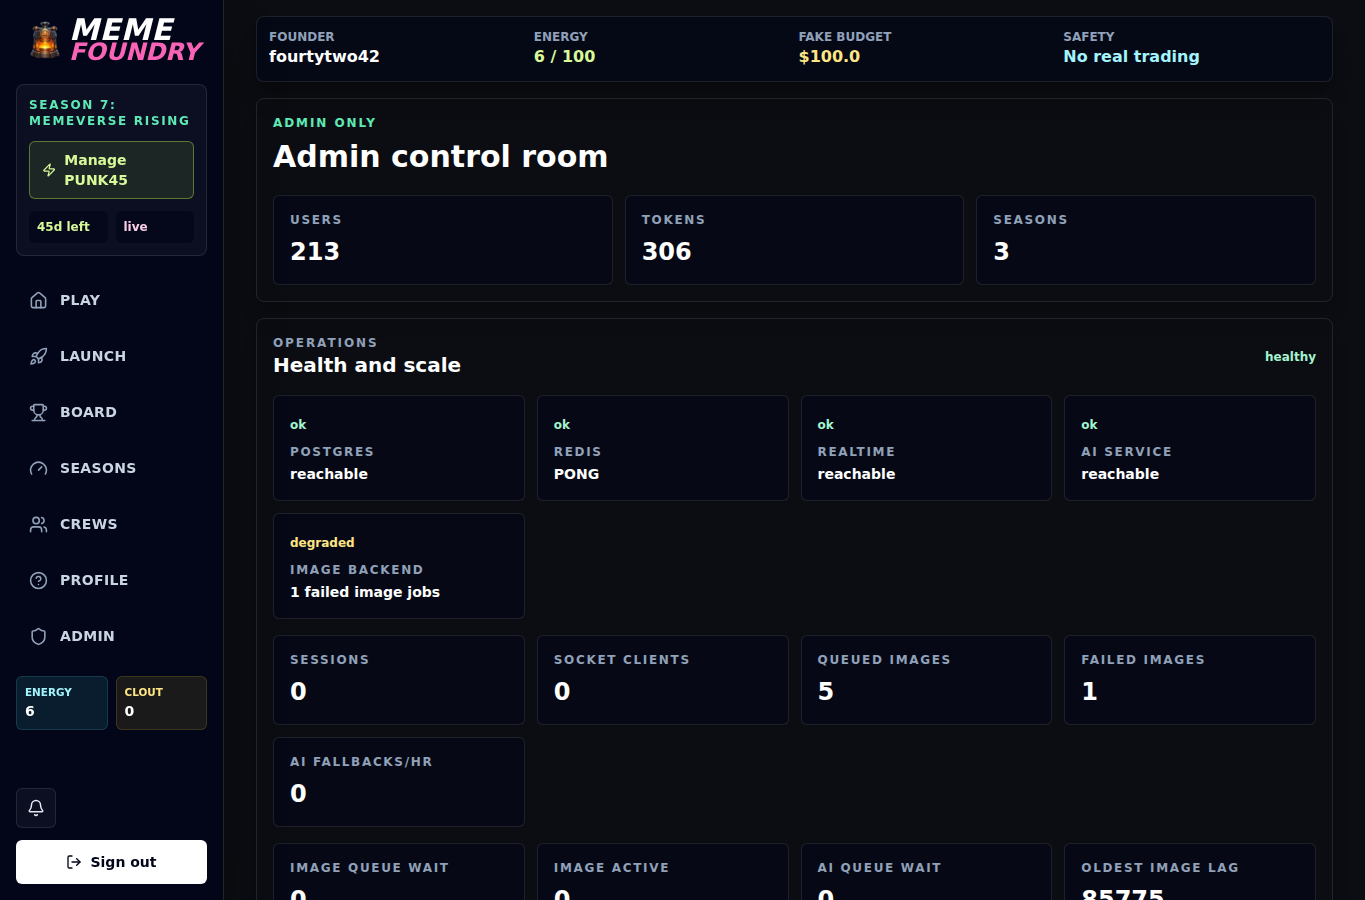
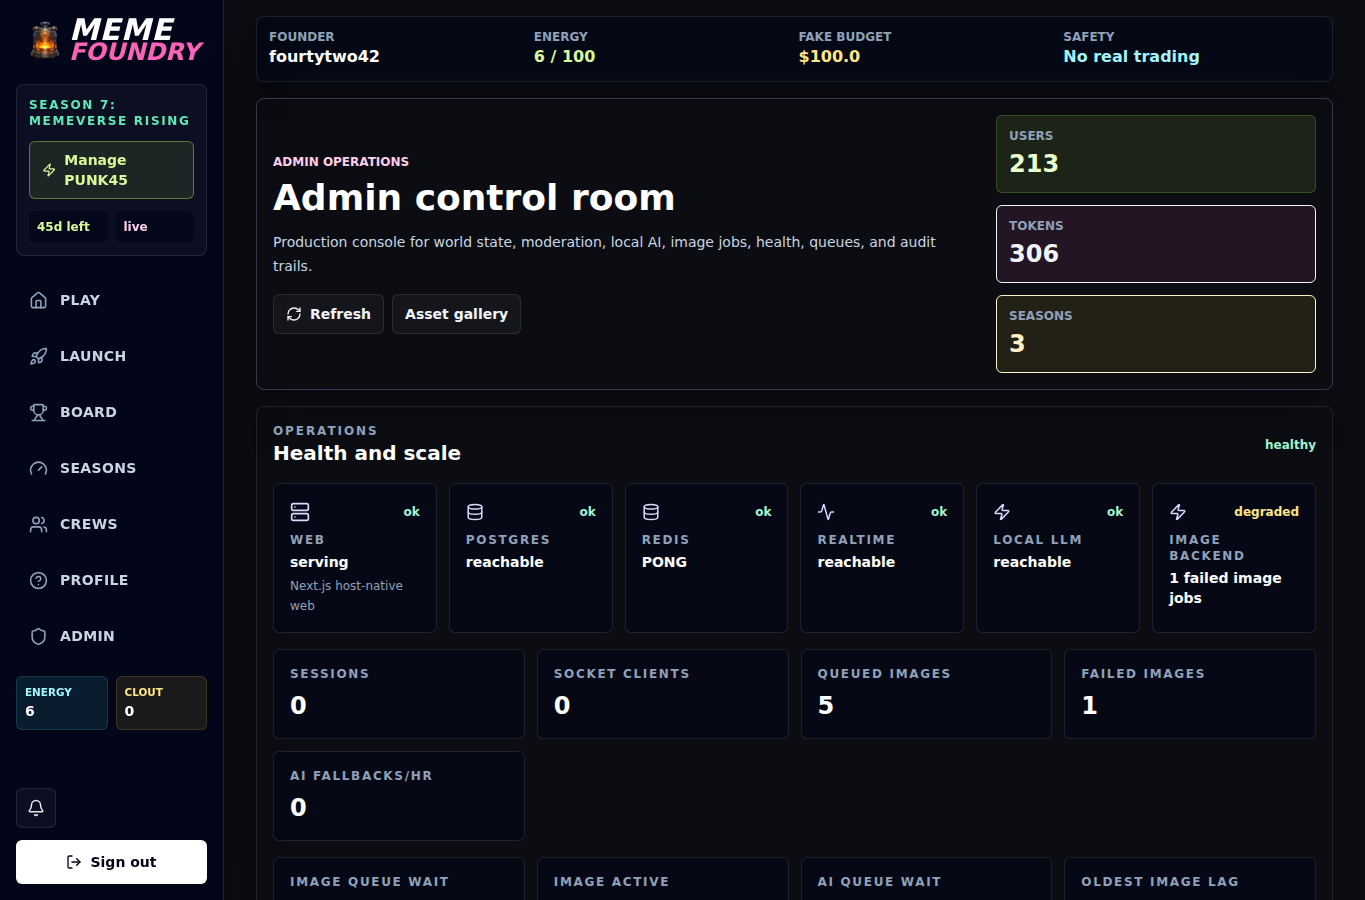
Align admin operations console

diff --git a/apps/web/src/app/admin/page.tsx b/apps/web/src/app/admin/page.tsx
@@ -1,4 +1,5 @@
 import { redirect } from "next/navigation";
+import type { ReactNode } from "react";
 import {
   hideReportTargetAction,
   resolveReportAction,
@@ -10,7 +11,15 @@ import { auth } from "@/auth";
 import { getOpsHealth } from "@/lib/server/ops-health";
 import { AppShell } from "@/components/shell/app-shell";
 import { prisma } from "@meme-foundry/db";
-import { Badge, Button, Panel } from "@meme-foundry/ui";
+import {
+  Badge,
+  Button,
+  Kicker,
+  MetricChip,
+  NeonPanel,
+  Panel
+} from "@meme-foundry/ui";
+import { Activity, Database, RefreshCw, Server, Zap } from "lucide-react";
 
 export const dynamic = "force-dynamic";
 
@@ -69,22 +78,39 @@ export default async function AdminPage() {
   return (
     <AppShell>
       <div className="grid gap-4" data-testid="admin-page">
-        <Panel>
-          <p className="text-xs font-semibold uppercase tracking-[0.16em] text-emerald-300">
-            Admin only
-          </p>
-          <h1 className="mt-2 text-3xl font-black text-white">
-            Admin control room
-          </h1>
-          <dl
-            className="mt-5 grid gap-3 sm:grid-cols-3"
-            data-testid="admin-counts"
-          >
-            <Metric label="Users" value={users} />
-            <Metric label="Tokens" value={tokens} />
-            <Metric label="Seasons" value={seasonCount} />
-          </dl>
-        </Panel>
+        <NeonPanel tone="violet">
+          <div className="grid gap-5 lg:grid-cols-[minmax(0,1fr)_20rem] lg:items-center">
+            <div>
+              <Kicker>Admin operations</Kicker>
+              <h1 className="mt-2 text-3xl font-black text-white sm:text-4xl">
+                Admin control room
+              </h1>
+              <p className="mt-3 max-w-3xl text-sm leading-6 text-slate-300">
+                Production console for world state, moderation, local AI, image
+                jobs, health, queues, and audit trails.
+              </p>
+              <div className="mt-4 flex flex-wrap gap-2">
+                <a
+                  className="inline-flex min-h-10 items-center gap-2 rounded-md border border-white/10 bg-white/[0.04] px-3 py-2 text-sm font-black text-slate-100 hover:bg-white/10"
+                  href="/admin"
+                >
+                  <RefreshCw size={16} /> Refresh
+                </a>
+                <a
+                  className="inline-flex min-h-10 items-center rounded-md border border-white/10 bg-white/[0.04] px-3 py-2 text-sm font-black text-slate-100 hover:bg-white/10"
+                  href="/admin/assets"
+                >
+                  Asset gallery
+                </a>
+              </div>
+            </div>
+            <dl className="grid gap-3" data-testid="admin-counts">
+              <MetricChip label="Users" tone="good" value={users} />
+              <MetricChip label="Tokens" tone="hot" value={tokens} />
+              <MetricChip label="Seasons" tone="warn" value={seasonCount} />
+            </dl>
+          </div>
+        </NeonPanel>
 
         <Panel data-testid="admin-health-panel">
           <div className="flex flex-wrap items-center justify-between gap-3">
@@ -100,31 +126,46 @@ export default async function AdminPage() {
               {health.db.ok && health.redis.ok ? "healthy" : "degraded"}
             </Badge>
           </div>
-          <div className="mt-4 grid gap-3 md:grid-cols-4">
+          <div
+            className="mt-4 grid gap-3 md:grid-cols-2 xl:grid-cols-6"
+            data-testid="admin-operations-cards"
+          >
+            <OpsCard
+              detail="Next.js host-native web"
+              icon={<Server size={20} />}
+              label="Web"
+              ok={health.db.ok}
+              value="serving"
+            />
             <HealthMetric
               label="Postgres"
               value={health.db.detail ?? "ok"}
               ok={health.db.ok}
+              icon={<Database size={18} />}
             />
             <HealthMetric
               label="Redis"
               value={health.redis.detail ?? "ok"}
               ok={health.redis.ok}
+              icon={<Database size={18} />}
             />
             <HealthMetric
               label="Realtime"
               value={health.realtime.detail ?? "ok"}
               ok={health.realtime.ok}
+              icon={<Activity size={18} />}
             />
             <HealthMetric
-              label="AI service"
+              label="Local LLM"
               value={health.ai.detail ?? "ok"}
               ok={health.ai.ok}
+              icon={<Zap size={18} />}
             />
             <HealthMetric
               label="Image backend"
               value={health.image.detail ?? "ok"}
               ok={health.image.ok}
+              icon={<Zap size={18} />}
             />
           </div>
           <dl className="mt-4 grid gap-3 md:grid-cols-4">
@@ -149,6 +190,84 @@ export default async function AdminPage() {
               value={health.queueStats.oldestQueuedImageSeconds}
             />
           </dl>
+          <div className="mt-4 overflow-x-auto" data-testid="admin-queue-table">
+            <table className="w-full min-w-[42rem] border-separate border-spacing-y-2 text-left text-sm">
+              <thead className="text-xs uppercase tracking-[0.12em] text-slate-400">
+                <tr>
+                  <th className="px-3 py-2">Queue</th>
+                  <th className="px-3 py-2">Status</th>
+                  <th className="px-3 py-2">Waiting</th>
+                  <th className="px-3 py-2">Active</th>
+                  <th className="px-3 py-2">Failed</th>
+                  <th className="px-3 py-2">Oldest lag</th>
+                </tr>
+              </thead>
+              <tbody>
+                <tr className="bg-slate-950/55">
+                  <td className="rounded-l-md px-3 py-3 font-black text-white">
+                    Image jobs
+                  </td>
+                  <td className="px-3 py-3">
+                    <Badge tone={health.image.ok ? "good" : "warn"}>
+                      {health.image.ok ? "ok" : "degraded"}
+                    </Badge>
+                  </td>
+                  <td className="px-3 py-3 text-slate-200">
+                    {health.queueStats.imageWaiting}
+                  </td>
+                  <td className="px-3 py-3 text-slate-200">
+                    {health.queueStats.imageActive}
+                  </td>
+                  <td className="px-3 py-3 text-slate-200">
+                    {health.failedImages}
+                  </td>
+                  <td className="rounded-r-md px-3 py-3 text-slate-200">
+                    {health.queueStats.oldestQueuedImageSeconds}s
+                  </td>
+                </tr>
+                <tr className="bg-slate-950/55">
+                  <td className="rounded-l-md px-3 py-3 font-black text-white">
+                    AI text
+                  </td>
+                  <td className="px-3 py-3">
+                    <Badge tone={health.ai.ok ? "good" : "warn"}>
+                      {health.ai.ok ? "ok" : "degraded"}
+                    </Badge>
+                  </td>
+                  <td className="px-3 py-3 text-slate-200">
+                    {health.queueStats.aiWaiting}
+                  </td>
+                  <td className="px-3 py-3 text-slate-200">0</td>
+                  <td className="px-3 py-3 text-slate-200">
+                    {health.recentAiErrors}
+                  </td>
+                  <td className="rounded-r-md px-3 py-3 text-slate-200">n/a</td>
+                </tr>
+              </tbody>
+            </table>
+          </div>
+          <Panel
+            className="mt-4 border-amber-300/25 bg-amber-300/10"
+            data-testid="admin-system-alerts"
+          >
+            <h3 className="font-black text-white">System alerts</h3>
+            <div className="mt-3 grid gap-2 text-sm text-slate-200">
+              {!health.db.ok ? <p>Postgres reports degraded health.</p> : null}
+              {!health.redis.ok ? <p>Redis reports degraded health.</p> : null}
+              {!health.realtime.ok ? (
+                <p>Realtime service is degraded or unreachable.</p>
+              ) : null}
+              {health.failedImages > 0 ? (
+                <p>{health.failedImages} image jobs need attention.</p>
+              ) : null}
+              {health.db.ok &&
+              health.redis.ok &&
+              health.realtime.ok &&
+              health.failedImages === 0 ? (
+                <p>No blocking system alerts.</p>
+              ) : null}
+            </div>
+          </Panel>
         </Panel>
 
         <Panel data-testid="admin-season-editor">
@@ -474,21 +593,54 @@ function NumberField({
 }
 
 function HealthMetric({
+  icon,
   label,
   ok,
   value
 }: {
+  icon?: ReactNode;
   label: string;
   ok: boolean;
   value: string | number;
 }) {
   return (
     <div className="rounded-md border border-white/10 bg-slate-950/50 p-4">
-      <Badge tone={ok ? "good" : "warn"}>{ok ? "ok" : "degraded"}</Badge>
+      <div className="flex items-center justify-between gap-2">
+        <span className="text-violet-200">{icon}</span>
+        <Badge tone={ok ? "good" : "warn"}>{ok ? "ok" : "degraded"}</Badge>
+      </div>
       <p className="mt-2 text-xs font-semibold uppercase tracking-[0.14em] text-slate-400">
         {label}
       </p>
       <p className="mt-1 break-words text-sm font-bold text-white">{value}</p>
+    </div>
+  );
+}
+
+function OpsCard({
+  detail,
+  icon,
+  label,
+  ok,
+  value
+}: {
+  detail: string;
+  icon: ReactNode;
+  label: string;
+  ok: boolean;
+  value: string;
+}) {
+  return (
+    <div className="rounded-md border border-white/10 bg-slate-950/50 p-4">
+      <div className="flex items-center justify-between gap-2">
+        <span className="text-violet-200">{icon}</span>
+        <Badge tone={ok ? "good" : "warn"}>{ok ? "ok" : "degraded"}</Badge>
+      </div>
+      <p className="mt-2 text-xs font-semibold uppercase tracking-[0.14em] text-slate-400">
+        {label}
+      </p>
+      <p className="mt-1 text-sm font-bold text-white">{value}</p>
+      <p className="mt-1 text-xs leading-5 text-slate-400">{detail}</p>
     </div>
   );
 }
